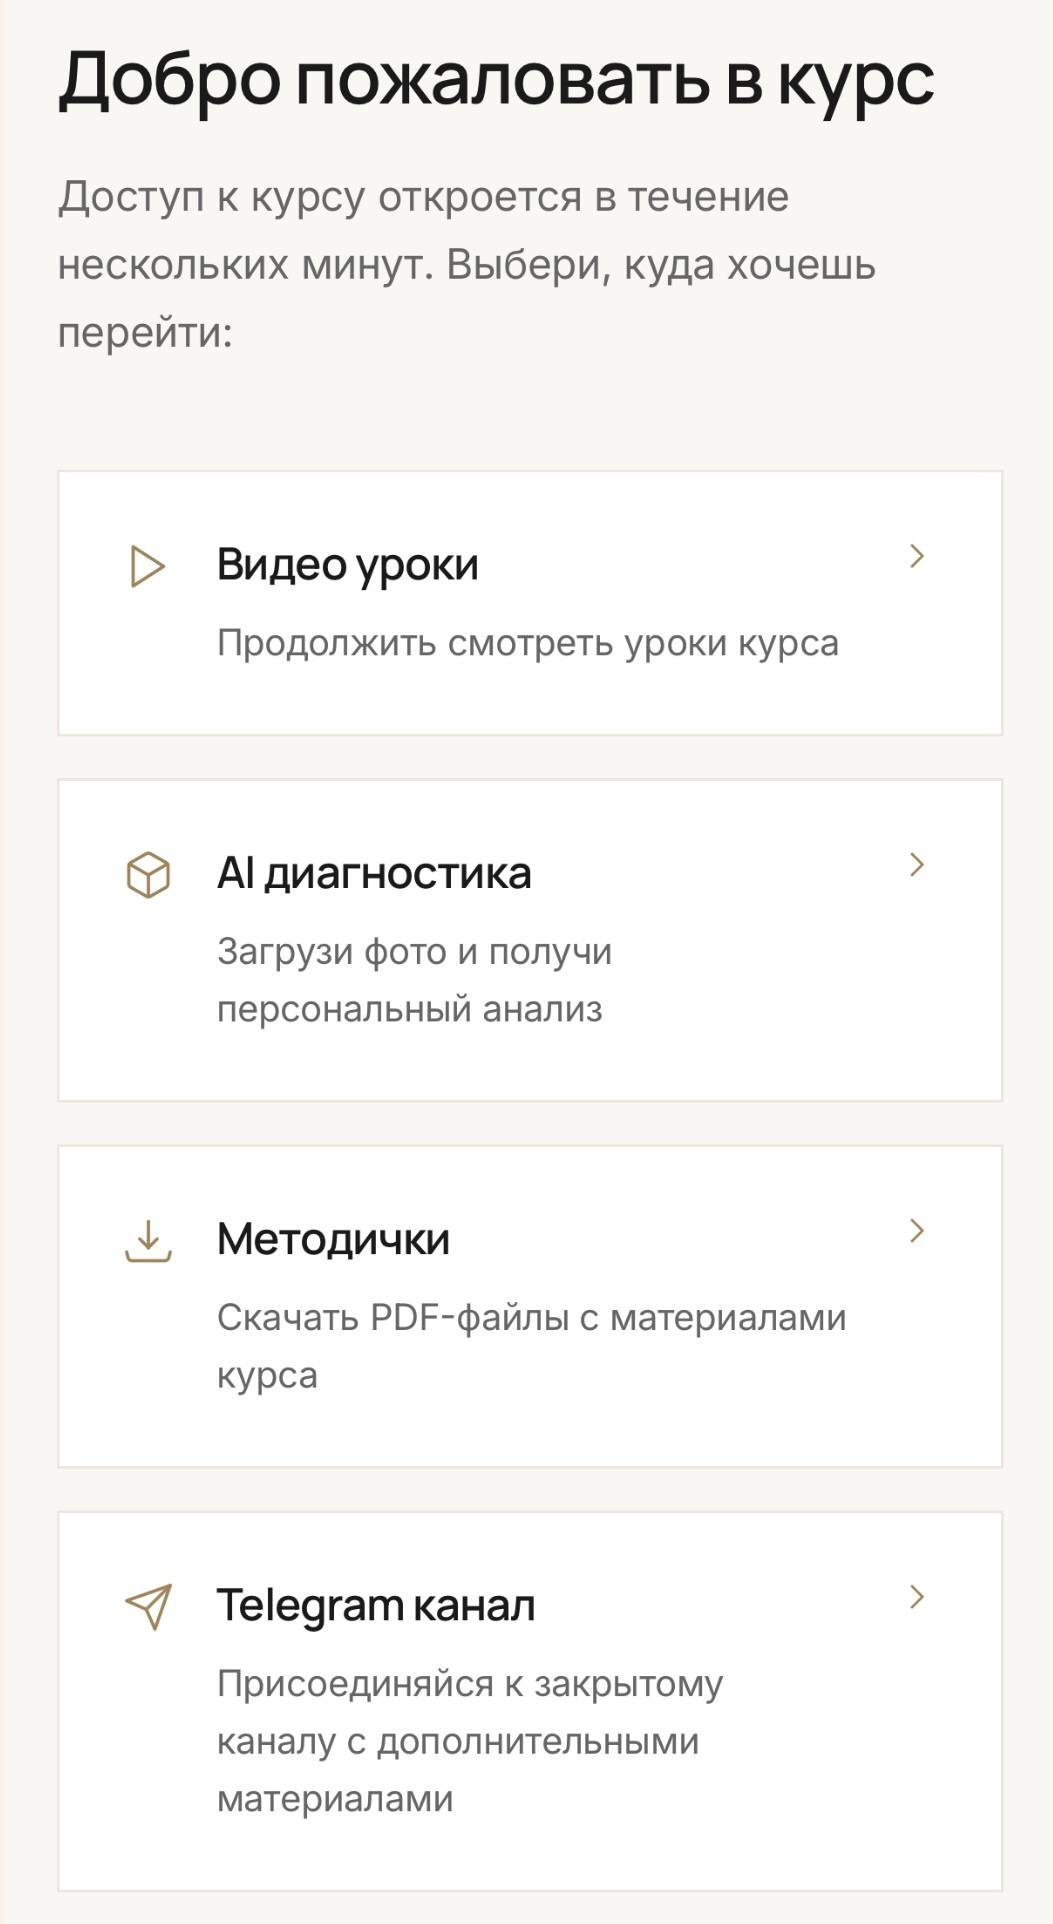
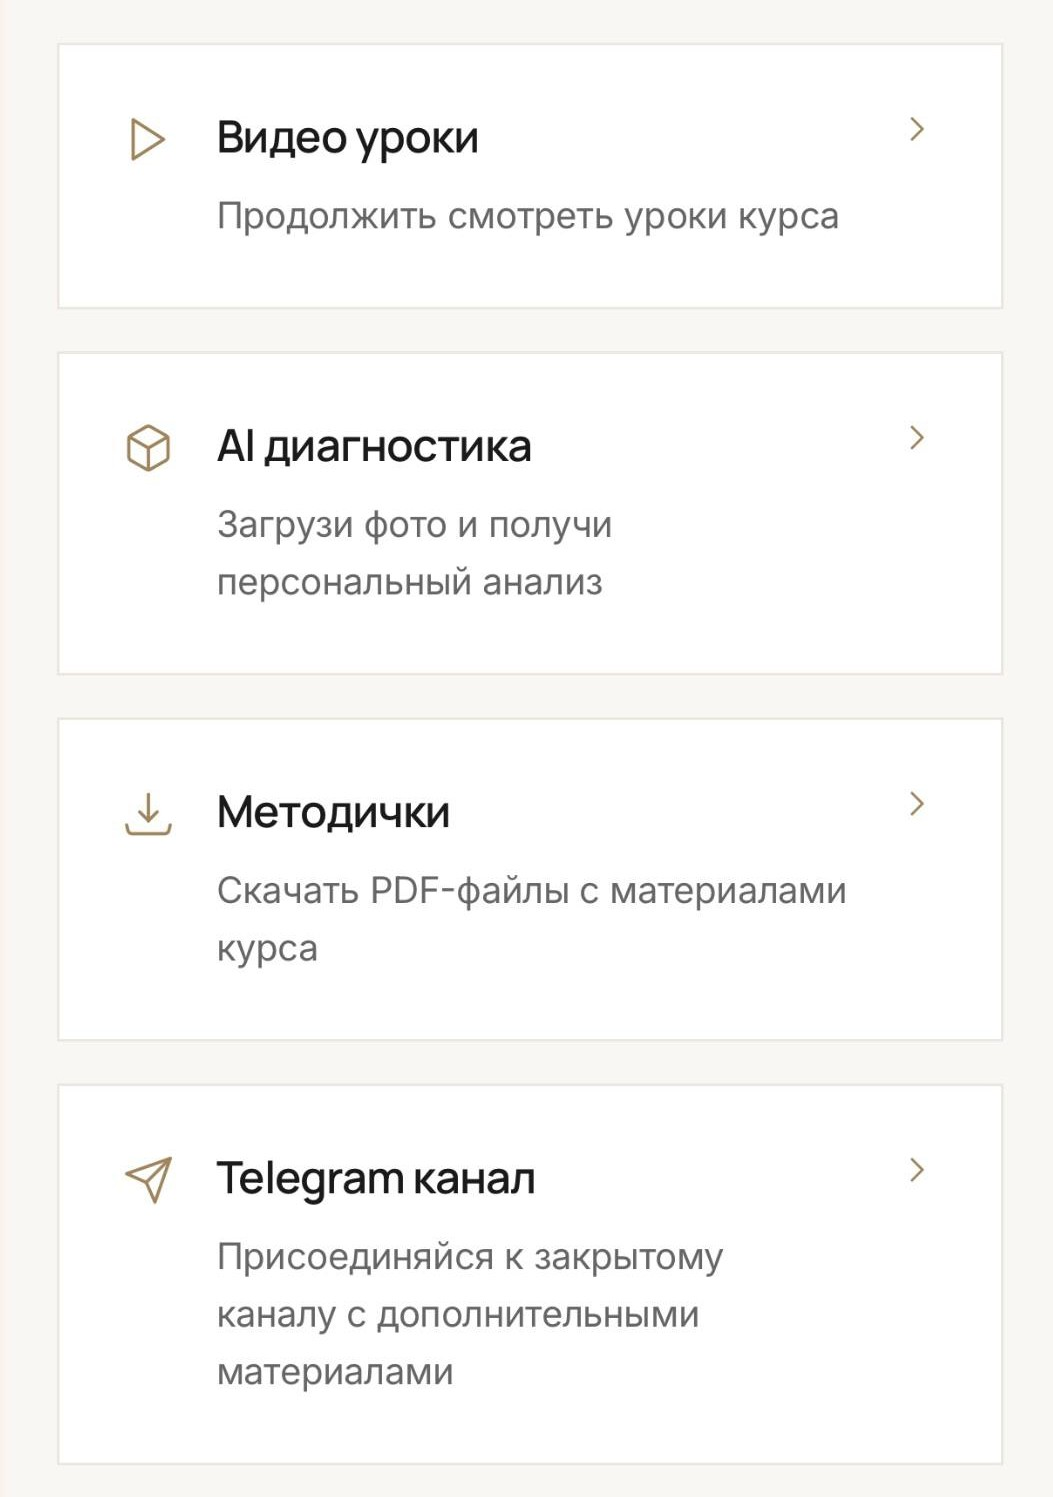
sup bug

diff --git a/src/components/landing/sections/LandingHeroSection.tsx b/src/components/landing/sections/LandingHeroSection.tsx
@@ -58,13 +58,13 @@ function HeroVisuals({
       initial={{ opacity: 0, y: 18 }}
       animate={{ opacity: 1, y: 0 }}
       transition={{ delay: 0.3, duration: 0.55 }}
-      className="relative flex items-end gap-6"
+      className="relative flex items-end gap-4"
     >
       {/* 3D mockup методичек */}
       <div className="relative">
         {/* задняя методичка (аксессуары) — выглядывает сверху-справа */}
         <div
-          className={`absolute -right-6 -top-7 h-[7.5rem] w-[5.6rem] overflow-hidden rounded-md border ${cardBorder} bg-white shadow-[0_10px_28px_rgba(20,12,8,0.28)] rotate-[7deg]`}
+          className={`absolute -right-5 -top-6 h-[5.5rem] w-[4.25rem] overflow-hidden rounded-md border ${cardBorder} bg-white shadow-[0_10px_28px_rgba(20,12,8,0.28)] rotate-[7deg]`}
         >
           <img
             alt="Методичка: аксессуары и инструменты"
@@ -74,7 +74,7 @@ function HeroVisuals({
         </div>
         {/* передняя методичка (домашний уход) — на переднем плане */}
         <div
-          className={`relative z-10 h-[7.5rem] w-[5.6rem] overflow-hidden rounded-md border ${cardBorder} bg-white shadow-[0_16px_36px_rgba(20,12,8,0.38)] -rotate-[5deg]`}
+          className={`relative z-10 h-[5.5rem] w-[4.25rem] overflow-hidden rounded-md border ${cardBorder} bg-white shadow-[0_16px_36px_rgba(20,12,8,0.38)] -rotate-[5deg]`}
         >
           <img
             alt="Методичка по домашнему уходу за волосами"
@@ -83,16 +83,16 @@ function HeroVisuals({
           />
         </div>
         {showLabels && (
-          <span className={`mt-4 block pl-1 font-sans text-[10px] uppercase tracking-[0.18em] ${labelColor}`}>
+          <span className={`mt-3 block pl-1 font-sans text-[10px] uppercase tracking-[0.18em] ${labelColor}`}>
             2 методички
           </span>
         )}
       </div>
 
       {/* превью видео-урока */}
-      <div className="relative pl-2">
+      <div className="relative pl-1">
         <div
-          className={`relative h-[7.5rem] w-[5.6rem] overflow-hidden rounded-md border ${cardBorder} bg-white shadow-[0_12px_30px_rgba(20,12,8,0.32)] rotate-[2deg]`}
+          className={`relative h-[5.5rem] w-[4.25rem] overflow-hidden rounded-md border ${cardBorder} bg-white shadow-[0_12px_30px_rgba(20,12,8,0.32)] rotate-[2deg]`}
         >
           <img
             alt="Видео-урок из курса HAIRLAB"
@@ -101,13 +101,13 @@ function HeroVisuals({
             style={{ objectPosition: "50% 30%" }}
           />
           <span className="absolute inset-0 flex items-center justify-center">
-            <span className="flex h-7 w-7 items-center justify-center rounded-full bg-white/85 pl-0.5 text-[#1A1A1A] shadow-md">
-              <PlayIcon size={13} />
+            <span className="flex h-6 w-6 items-center justify-center rounded-full bg-white/85 pl-0.5 text-[#1A1A1A] shadow-md">
+              <PlayIcon size={12} />
             </span>
           </span>
         </div>
         {showLabels && (
-          <span className={`mt-4 block pl-1 font-sans text-[10px] uppercase tracking-[0.18em] ${labelColor}`}>
+          <span className={`mt-3 block pl-1 font-sans text-[10px] uppercase tracking-[0.18em] ${labelColor}`}>
             Видео-уроки
           </span>
         )}
@@ -257,11 +257,11 @@ export function LandingHeroSection() {
             </motion.p>
           </div>
 
-          <div className="mt-6">
-            <HeroVisuals tone="dark" />
+          <div className="mt-4 min-[390px]:mt-5">
+            <HeroVisuals tone="dark" showLabels={false} />
           </div>
 
-          <div className="absolute inset-x-5 bottom-4 z-20 flex flex-col gap-2 min-[390px]:inset-x-6 min-[390px]:bottom-5">
+          <div className="absolute inset-x-5 bottom-5 z-20 flex flex-col gap-2 min-[390px]:inset-x-6 min-[390px]:bottom-6">
             <a
               href="/quiz"
               className="inline-flex min-h-[3.35rem] w-full flex-col items-center justify-center rounded-full bg-[#FAF7F4] border-2 border-[#E0DCD6] px-5 py-3 font-sans text-[11px] font-semibold uppercase tracking-[0.1em] text-[#1A1A1A] shadow-[0_22px_48px_rgba(34,25,21,0.28)] transition-all hover:bg-white hover:border-[#C4956A] min-[390px]:min-h-[3.75rem] min-[390px]:px-6 min-[390px]:text-[13px] min-[390px]:tracking-[0.15em]"

diff --git a/src/app/api/diagnose/route.ts b/src/app/api/diagnose/route.ts
@@ -10,7 +10,8 @@ function getSupabase() {
   }
   return createClient(
     process.env.NEXT_PUBLIC_SUPABASE_URL,
-    process.env.SUPABASE_SERVICE_ROLE_KEY
+    process.env.SUPABASE_SERVICE_ROLE_KEY,
+    { auth: { autoRefreshToken: false, persistSession: false } }
   );
 }
 
@@ -75,41 +76,40 @@ async function checkRateLimit(ip: string): Promise<boolean> {
   return true;
 }
 
+const MIME_TO_EXT: Record<string, string> = {
+  'image/jpeg': 'jpg',
+  'image/jpg': 'jpg',
+  'image/png': 'png',
+  'image/webp': 'webp',
+};
+
+const ALLOWED_MIME_TYPES = new Set(Object.keys(MIME_TO_EXT));
+
 async function uploadImageToSupabase(
   file: File,
   fileName: string
-): Promise<{ publicUrl: string; signedUrl: string; path: string }> {
-  const arrayBuffer = await file.arrayBuffer();
-  const buffer = Buffer.from(arrayBuffer);
-  
+): Promise<{ signedUrl: string; path: string }> {
   const supabase = getSupabase();
   const { data, error } = await supabase.storage
     .from('hair-photos')
-    .upload(fileName, buffer, {
+    .upload(fileName, file, {
       contentType: file.type,
       upsert: false,
     });
-  
+
   if (error) {
     throw new Error(`Failed to upload image: ${error.message}`);
   }
-  
-  // Get signed URL (valid for 1 hour)
+
   const { data: signedUrlData, error: signedUrlError } = await supabase.storage
     .from('hair-photos')
     .createSignedUrl(data.path, 3600);
-  
+
   if (signedUrlError) {
     throw new Error(`Failed to create signed URL: ${signedUrlError.message}`);
   }
-  
-  // Get public URL
-  const { data: publicUrlData } = supabase.storage
-    .from('hair-photos')
-    .getPublicUrl(data.path);
-  
+
   return {
-    publicUrl: publicUrlData.publicUrl,
     signedUrl: signedUrlData.signedUrl,
     path: data.path,
   };
@@ -271,26 +271,26 @@ export async function POST(request: NextRequest) {
     }
     
     // Validate file type
-    if (!file.type.startsWith('image/')) {
+    if (!ALLOWED_MIME_TYPES.has(file.type)) {
       return NextResponse.json(
-        { error: 'Invalid file type. Only images are allowed.' },
+        { error: 'Неподдерживаемый формат. Используйте JPG, PNG или WebP.' },
         { status: 400 }
       );
     }
-    
+
     // Validate file size (max 5MB)
-    const maxSize = 5 * 1024 * 1024; // 5MB
+    const maxSize = 5 * 1024 * 1024;
     if (file.size > maxSize) {
       return NextResponse.json(
         { error: 'File too large. Maximum size is 5MB.' },
         { status: 400 }
       );
     }
-    
-    // Generate unique filename with path prefix
+
+    // Generate unique filename — use MIME type for extension, not filename
     const timestamp = Date.now();
     const randomString = Math.random().toString(36).substring(2, 15);
-    const fileExtension = file.name.split('.').pop();
+    const fileExtension = MIME_TO_EXT[file.type] ?? 'jpg';
     const fileName = `diagnoses/${timestamp}_${randomString}.${fileExtension}`;
     
     // Upload to Supabase Storage
